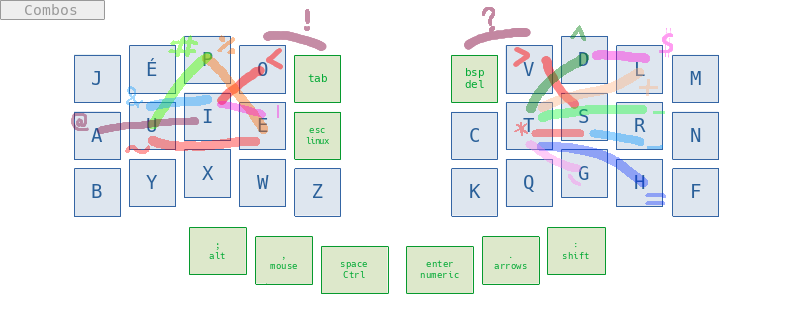
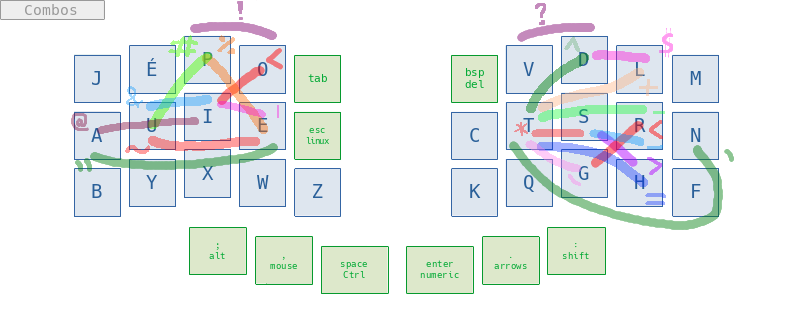
Up combos

diff --git a/keymap.c b/keymap.c
@@ -137,40 +137,40 @@ const uint16_t PROGMEM keymaps[][MATRIX_ROWS][MATRIX_COLS] = {
 
   [_NUMERIC] = LAYOUT_split_3x5_3(
   //----------------+----------------+----------------+----------------+-----------------------|       |-----------------------+----------------+----------------+----------------+----------------|
-         XXXXXXX    ,     XXXXXXX    ,     XXXXXXX    ,    XXXXXXX     ,        XXXXXXX        ,                KC_COMM        ,      KC_7      ,      KC_8      ,      KC_9      ,     KC_PLUS    ,
+         XXXXXXX    ,     XXXXXXX    ,     XXXXXXX    ,    XXXXXXX     ,        _______        ,                _______        ,      KC_7      ,      KC_8      ,      KC_9      ,     XXXXXXX    ,
   //----------------+----------------+----------------+----------------+-----------------------|       |-----------------------+----------------+----------------+----------------+----------------|
-         XXXXXXX    ,     XXXXXXX    ,     XXXXXXX    ,    XXXXXXX     ,        XXXXXXX        ,                  KC_0         ,      KC_4      ,      KC_5      ,      KC_6      ,     KC_ASTR    ,
+         XXXXXXX    ,     XXXXXXX    ,     XXXXXXX    ,    XXXXXXX     ,        _______        ,                  KC_0         ,      KC_4      ,      KC_5      ,      KC_6      ,     XXXXXXX    ,
   //----------------+----------------+----------------+----------------+-----------------------|       |-----------------------+----------------+----------------+----------------+----------------|
-         XXXXXXX    ,     XXXXXXX    ,     XXXXXXX    ,    XXXXXXX     ,        XXXXXXX        ,                 KC_EQL        ,      KC_1      ,      KC_2      ,      KC_3      ,     KC_CIRC    ,
+         XXXXXXX    ,     XXXXXXX    ,     XXXXXXX    ,    XXXXXXX     ,        XXXXXXX        ,                XXXXXXX        ,      KC_1      ,      KC_2      ,      KC_3      ,     XXXXXXX    ,
   //----------------+----------------+----------------+----------------+-----------------------|       |-----------------------+----------------+----------------+----------------+----------------|
   //                             |-------------------+-------------------+-----------------------|   |-----------------------+-------------------+-------------------|
-                                         XXXXXXX     ,       UNICODE     ,         _______       ,          XXXXXXX          ,     XXXXXXX       ,      XXXXXXX
+                                         _______     ,       UNICODE     ,         _______       ,          XXXXXXX          ,     XXXXXXX       ,      _______
   //                             |-------------------+-------------------+-----------------------|   |-----------------------+-------------------+-------------------|
   ),
 
   [_MOUSE] = LAYOUT_split_3x5_3(
   //----------------+----------------+----------------+----------------+-----------------------|       |-----------------------+----------------+----------------+----------------+----------------|
-      KC_MS_WH_LEFT ,   KC_MS_WH_UP  ,  KC_MS_WH_DOWN , KC_MS_WH_RIGHT ,        XXXXXXX        ,               XXXXXXX         ,    XXXXXXX     ,     XXXXXXX    ,    XXXXXXX     ,    XXXXXXX     ,
+      KC_MS_WH_LEFT ,   KC_MS_WH_UP  ,  KC_MS_WH_DOWN , KC_MS_WH_RIGHT ,        _______        ,               _______         ,    XXXXXXX     ,     XXXXXXX    ,    XXXXXXX     ,    XXXXXXX     ,
   //----------------+----------------+----------------+----------------+-----------------------|       |-----------------------+----------------+----------------+----------------+----------------|
-       KC_MS_LEFT   ,    KC_MS_UP    ,   KC_MS_DOWN   ,   KC_MS_RIGHT  ,        XXXXXXX        ,               XXXXXXX         ,  KC_MS_ACCEL0  ,  KC_MS_ACCEL1  ,  KC_MS_ACCEL2  ,    XXXXXXX     ,
+       KC_MS_LEFT   ,    KC_MS_UP    ,   KC_MS_DOWN   ,   KC_MS_RIGHT  ,        _______        ,               XXXXXXX         ,  KC_MS_ACCEL0  ,  KC_MS_ACCEL1  ,  KC_MS_ACCEL2  ,    XXXXXXX     ,
   //----------------+----------------+----------------+----------------+-----------------------|       |-----------------------+----------------+----------------+----------------+----------------|
        KC_MS_BTN1   ,     XXXXXXX    ,   KC_MS_BTN3   ,   KC_MS_BTN2   ,        XXXXXXX        ,               XXXXXXX         ,    XXXXXXX     ,     XXXXXXX    ,    XXXXXXX     ,    XXXXXXX     ,
   //----------------+----------------+----------------+----------------+-----------------------|       |-----------------------+----------------+----------------+----------------+----------------|
   //                             |-------------------+-------------------+-----------------------|   |-----------------------+-------------------+-------------------|
-                                        XXXXXXX      ,     XXXXXXX       ,        _______        ,          KC_MS_BTN1       ,     KC_MS_BTN3    ,     KC_MS_BTN2
+                                        _______      ,     XXXXXXX       ,        _______        ,          KC_MS_BTN1       ,     KC_MS_BTN3    ,     KC_MS_BTN2
   //                             |-------------------+-------------------+-----------------------|   |-----------------------+-------------------+-------------------|
   ),
 
   [_ARROWS] = LAYOUT_split_3x5_3(
   //----------------+----------------+----------------+----------------+-----------------------|       |-----------------------+----------------+----------------+----------------+----------------|
-         XXXXXXX    ,     XXXXXXX    ,     XXXXXXX    ,     XXXXXXX    ,        XXXXXXX        ,               XXXXXXX         ,    KC_HOME     ,  KC_PAGE_DOWN  ,   KC_PAGE_UP   ,     KC_END     ,
+         XXXXXXX    ,     XXXXXXX    ,     XXXXXXX    ,     XXXXXXX    ,        _______        ,               _______         ,    KC_HOME     ,  KC_PAGE_DOWN  ,   KC_PAGE_UP   ,     KC_END     ,
   //----------------+----------------+----------------+----------------+-----------------------|       |-----------------------+----------------+----------------+----------------+----------------|
-         XXXXXXX    ,     XXXXXXX    ,     XXXXXXX    ,     XXXXXXX    ,        XXXXXXX        ,               XXXXXXX         ,    KC_LEFT     ,    KC_DOWN     ,     KC_UP      ,    KC_RIGHT    ,
+         XXXXXXX    ,     XXXXXXX    ,     XXXXXXX    ,     XXXXXXX    ,        _______        ,               XXXXXXX         ,    KC_LEFT     ,    KC_DOWN     ,     KC_UP      ,    KC_RIGHT    ,
   //----------------+----------------+----------------+----------------+-----------------------|       |-----------------------+----------------+----------------+----------------+----------------|
          XXXXXXX    ,     XXXXXXX    ,     XXXXXXX    ,     XXXXXXX    ,        XXXXXXX        ,               XXXXXXX         ,    XXXXXXX     ,    C(KC_D)     ,    C(KC_U)     ,    XXXXXXX     ,
   //----------------+----------------+----------------+----------------+-----------------------|       |-----------------------+----------------+----------------+----------------+----------------|
   //                             |-------------------+-------------------+-----------------------|   |-----------------------+-------------------+-------------------|
-                                        XXXXXXX      ,     XXXXXXX       ,        _______        ,          XXXXXXX          ,     XXXXXXX       ,      XXXXXXX
+                                        _______      ,     XXXXXXX       ,        _______        ,          XXXXXXX          ,     XXXXXXX       ,      _______
   //                             |-------------------+-------------------+-----------------------|   |-----------------------+-------------------+-------------------|
   ),
 
@@ -196,7 +196,7 @@ const uint16_t PROGMEM keymaps[][MATRIX_ROWS][MATRIX_COLS] = {
           XXXXXXX    ,     XXXXXXX    ,     XXXXXXX    ,    XXXXXXX     ,        XXXXXXX        ,               XXXXXXX         ,      KC_F1     ,      KC_F2     ,      KC_F3     ,     KC_F12    ,
   //|----------------+----------------+----------------+----------------+-----------------------|       |-----------------------+----------------+----------------+----------------+---------------|
   //                              |-------------------+-------------------+-----------------------|   |-----------------------+-------------------+-------------------|
-                                          XXXXXXX     ,       XXXXXXX     ,         _______       ,          XXXXXXX          ,     XXXXXXX       ,      XXXXXXX
+                                          _______     ,       XXXXXXX     ,         _______       ,          XXXXXXX          ,     XXXXXXX       ,      _______
   //                              |-------------------+-------------------+-----------------------|   |-----------------------+-------------------+-------------------|
   ),
 };

diff --git a/features/combo.c b/features/combo.c
@@ -165,8 +165,8 @@ const uint16_t PROGMEM combo_at_sign[] =                {KC_A, KC_I, COMBO_END};
 const uint16_t PROGMEM combo_quote[] =                  {KC_T, KC_N, COMBO_END};
 const uint16_t PROGMEM combo_quote_double[] =           {KC_E, KC_A, COMBO_END};
 
-const uint16_t PROGMEM combo_angle_bracket_left[] =     {KC_I, KC_O, COMBO_END};
-const uint16_t PROGMEM combo_angle_bracket_right[] =    {KC_S, KC_V, COMBO_END};
+const uint16_t PROGMEM combo_angle_bracket_left[] =     {KC_S, KC_H, COMBO_END};
+const uint16_t PROGMEM combo_angle_bracket_right[] =    {KC_G, KC_R, COMBO_END};
 
 const uint16_t PROGMEM combo_exclamation_mark[] =       {KC_O, KC_P, COMBO_END};
 const uint16_t PROGMEM combo_question_mark[] =          {KC_V, KC_D, COMBO_END};
@@ -182,8 +182,8 @@ const uint16_t PROGMEM combo_curly_bracket_right[] =    {KC_U, KC_X, COMBO_END};
 // One hand special
 const uint16_t PROGMEM combo_control_right[] =          {LT(_NUMERIC, KC_ENT), KC_C, COMBO_END};
 const uint16_t PROGMEM combo_control_shift_right[] =    {LT(_NUMERIC, KC_ENT), KC_S, COMBO_END};
-const uint16_t PROGMEM combo_shift_left[] =             {KC_LAPO, KC_W, COMBO_END};
-const uint16_t PROGMEM combo_del_left[] =               {KC_TAB, KC_O, COMBO_END};
+const uint16_t PROGMEM combo_shift_left[] =             {KC_A, GUI_T(KC_ESC), COMBO_END};
+const uint16_t PROGMEM combo_del_left[] =               {KC_J, KC_TAB, COMBO_END};
 
 
 // --------------------------------------------------

diff --git a/features/leader.c b/features/leader.c
@@ -144,14 +144,14 @@ void matrix_scan_user(void) {
     SEQ_THREE_KEYS(KC_O, KC_W, KC_D) {
       send_unicode_string("⛔"); }
 
-    SEQ_TWO_KEYS(KC_EXCLAIM, KC_EXCLAIM) {
-      send_unicode_string("❓"); }
-    SEQ_ONE_KEY(KC_EXCLAIM) {
-      send_unicode_string("❗"); }
-    SEQ_THREE_KEYS(KC_EXCLAIM, KC_EXCLAIM, KC_G) {
+    SEQ_ONE_KEY(KC_QUESTION) {
       send_unicode_string("❔"); }
-    SEQ_TWO_KEYS(KC_EXCLAIM, KC_G) {
+    SEQ_ONE_KEY(KC_EXCLAIM) {
       send_unicode_string("❕"); }
+    SEQ_TWO_KEYS(KC_QUESTION, KC_QUESTION) {
+      send_unicode_string("❓"); }
+    SEQ_TWO_KEYS(KC_EXCLAIM, KC_EXCLAIM) {
+      send_unicode_string("❗"); }
 
     SEQ_THREE_KEYS(KC_C, KC_O, KC_F) {
       send_unicode_string("☕"); }

diff --git a/config.h b/config.h
@@ -5,8 +5,8 @@
 #pragma once
 
 /* Select hand configuration */
-// #define MASTER_LEFT
-#define MASTER_RIGHT
+#define MASTER_LEFT
+// #define MASTER_RIGHT
 
 // Useless ?
 // #ifdef CONVERT_TO_ELITE_PI
